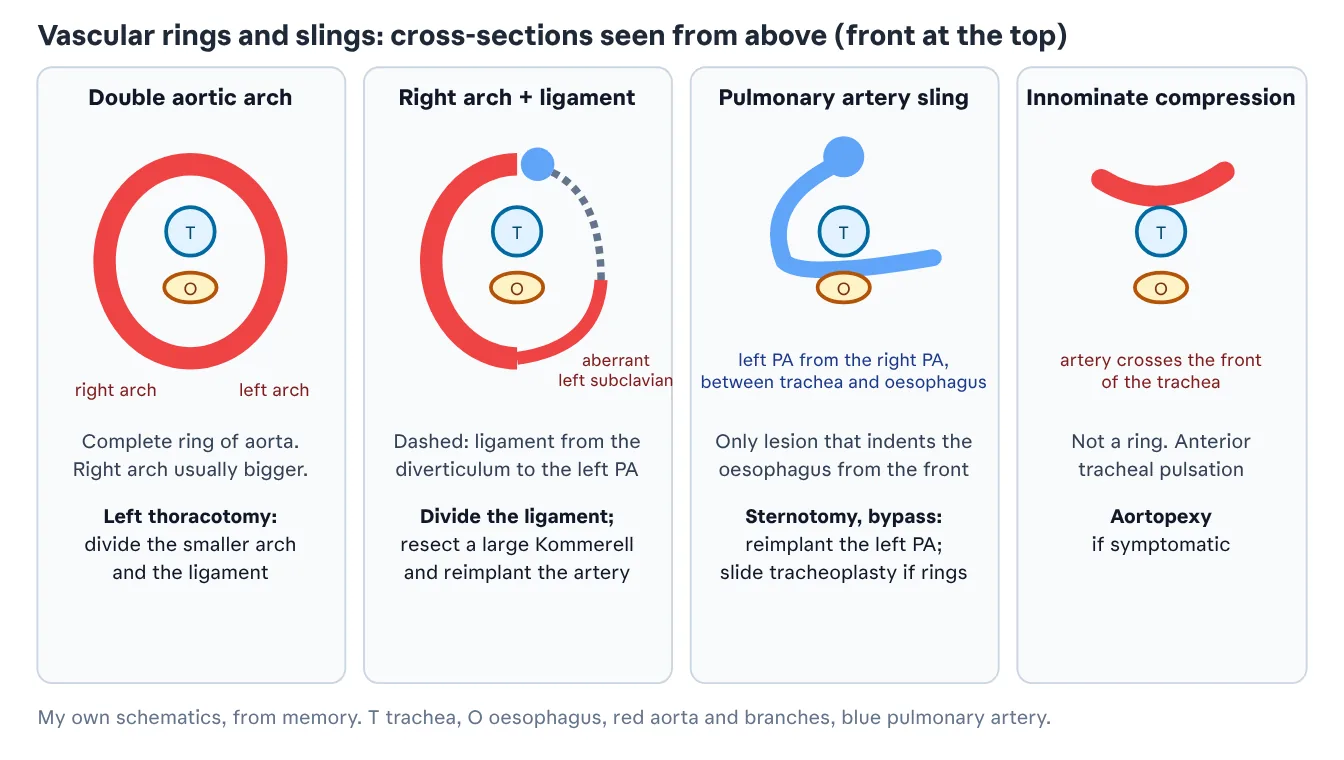
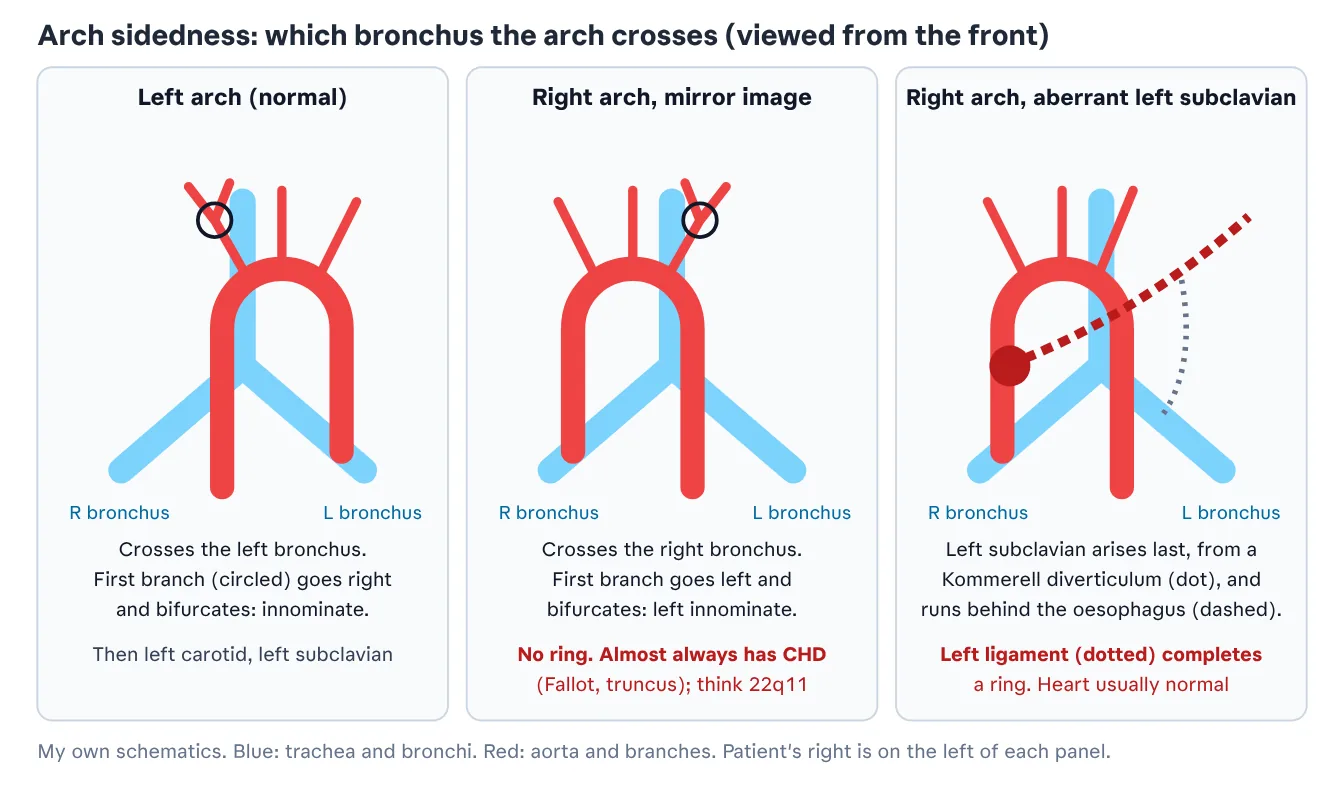
Congenital 6: arch sidedness with schematic
Claude-Session: https://claude.ai/code/session_01Rh3NCGU1qAttPZ8CRZtk9w

diff --git a/st4/index.html b/st4/index.html
@@ -23523,7 +23523,7 @@ mark{background:var(--hit);color:inherit;border-radius:2px}
 <li><p>Can the heart be repaired, that is, are there two adequate ventricles? If yes: when, at what weight, and is a temporising medical, catheter or surgical step needed first? If no: is the child suitable for single-ventricle palliation, and what is needed now to make the circulation adequate?</p></li>
 </ol>
 </section>
-<section id="tab-g6" data-slug="g6" data-title="6 Anatomy and physiology gaps" hidden><h1 id="g6--congenital-6-anatomy-and-physiology-the-remaining-syllabus-i">Congenital 6: anatomy and physiology, the remaining syllabus items</h1><details class="toc"><summary>Contents (15 sections)</summary><ol><li><a href="#g6/g6--coverage-check-against-the-syllabus">Coverage check against the syllabus</a></li><li><a href="#g6/g6--physiology-first-five-groups">Physiology first: five groups</a></li><li><a href="#g6/g6--embryology">Embryology</a></li><li><a href="#g6/g6--coronary-anatomy-and-its-variants">Coronary anatomy and its variants</a></li><li><a href="#g6/g6--aortopulmonary-window">Aortopulmonary window</a></li><li><a href="#g6/g6--congenitally-corrected-transposition">Congenitally corrected transposition</a></li><li><a href="#g6/g6--double-outlet-right-ventricle-and-the-rastelli-operation">Double outlet right ventricle and the Rastelli operation</a></li><li><a href="#g6/g6--pulmonary-atresia-with-vsd-and-collaterals">Pulmonary atresia with VSD and collaterals</a></li><li><a href="#g6/g6--left-ventricular-outflow-obstruction-sinus-of-valsalva-mitra">Left ventricular outflow obstruction, sinus of Valsalva, mitral</a></li><li><a href="#g6/g6--ebstein-anomaly-and-pulmonary-atresia-with-intact-septum">Ebstein anomaly and pulmonary atresia with intact septum</a></li><li><a href="#g6/g6--systemic-venous-anomalies">Systemic venous anomalies</a></li><li><a href="#g6/g6--vascular-rings-and-slings">Vascular rings and slings</a></li><li><a href="#g6/g6--cardiac-tumours-in-children">Cardiac tumours in children</a></li><li><a href="#g6/g6--bypass-in-children-immature-myocardium-and-support">Bypass in children, immature myocardium and support</a></li><li><a href="#g6/g6--checked-against-the-2025-acc-aha-adult-congenital-guideline-">Checked against the 2025 ACC/AHA adult congenital guideline (added 19 November 2026)</a></li></ol></details>
+<section id="tab-g6" data-slug="g6" data-title="6 Anatomy and physiology gaps" hidden><h1 id="g6--congenital-6-anatomy-and-physiology-the-remaining-syllabus-i">Congenital 6: anatomy and physiology, the remaining syllabus items</h1><details class="toc"><summary>Contents (16 sections)</summary><ol><li><a href="#g6/g6--coverage-check-against-the-syllabus">Coverage check against the syllabus</a></li><li><a href="#g6/g6--physiology-first-five-groups">Physiology first: five groups</a></li><li><a href="#g6/g6--embryology">Embryology</a></li><li><a href="#g6/g6--coronary-anatomy-and-its-variants">Coronary anatomy and its variants</a></li><li><a href="#g6/g6--aortopulmonary-window">Aortopulmonary window</a></li><li><a href="#g6/g6--congenitally-corrected-transposition">Congenitally corrected transposition</a></li><li><a href="#g6/g6--double-outlet-right-ventricle-and-the-rastelli-operation">Double outlet right ventricle and the Rastelli operation</a></li><li><a href="#g6/g6--pulmonary-atresia-with-vsd-and-collaterals">Pulmonary atresia with VSD and collaterals</a></li><li><a href="#g6/g6--left-ventricular-outflow-obstruction-sinus-of-valsalva-mitra">Left ventricular outflow obstruction, sinus of Valsalva, mitral</a></li><li><a href="#g6/g6--ebstein-anomaly-and-pulmonary-atresia-with-intact-septum">Ebstein anomaly and pulmonary atresia with intact septum</a></li><li><a href="#g6/g6--systemic-venous-anomalies">Systemic venous anomalies</a></li><li><a href="#g6/g6--arch-sidedness-added-19-november-2026">Arch sidedness (added 19 November 2026)</a></li><li><a href="#g6/g6--vascular-rings-and-slings">Vascular rings and slings</a></li><li><a href="#g6/g6--cardiac-tumours-in-children">Cardiac tumours in children</a></li><li><a href="#g6/g6--bypass-in-children-immature-myocardium-and-support">Bypass in children, immature myocardium and support</a></li><li><a href="#g6/g6--checked-against-the-2025-acc-aha-adult-congenital-guideline-">Checked against the 2025 ACC/AHA adult congenital guideline (added 19 November 2026)</a></li></ol></details>
 <p>Added 19 November 2026. I compared the congenital list in the FRCS syllabus (Appendix 2, August 2026) with the five existing congenital tabs, and wrote this tab to fill what was missing. <strong>Status of this tab: almost everything here is from memory</strong>, because you have not sent a congenital textbook or guideline for these lesions and I checked only the rows marked "checked" (against summaries of the ESC 2020 adult congenital guideline and the AATS 2017 coronary anomaly consensus). Treat it as a structured first draft to verify. The drawings are my own schematics.</p>
 <h2 id="g6--coverage-check-against-the-syllabus">Coverage check against the syllabus</h2>
 <div class="tw"><table>
@@ -24071,6 +24071,132 @@ mark{background:var(--hit);color:inherit;border-radius:2px}
 <li><p>Unroofed coronary sinus with left SVC: right-to-left shunt to the left atrium.</p></li>
 <li><p>Interrupted IVC with azygos continuation: with left isomerism; a Glenn then carries almost all venous return (Kawashima).</p></li>
 </ul>
+<h2 id="g6--arch-sidedness-added-19-november-2026">Arch sidedness (added 19 November 2026)</h2>
+<p>Sources read: StatPearls, Right Aortic Arches (<a href="https://www.statpearls.com/point-of-care/28590" target="_blank" rel="noopener">extracts</a>); a 2020 classification paper in Cardiology in the Young (extract); a radiology teaching summary. Rows are checked against these unless marked memory. The 2025 ACC/AHA adult guideline says only that 22q11 deletion is common with arch anomalies including right arch (checked in the PDF).</p>
+<figure><img loading="lazy" src="img/g6-5.webp" width="1344" height="796" alt="Arch sidedness: left arch, right arch with mirror-image branching, and right arch with aberrant left subclavian (my own schematics)"><figcaption>Arch sidedness: left arch, right arch with mirror-image branching, and right arch with aberrant left subclavian (my own schematics)</figcaption></figure>
+<div class="tw"><table>
+
+
+<tr>
+<th>Point</th>
+<th>Detail</th>
+<th>Status</th>
+</tr>
+
+
+<tr>
+<td>Definition</td>
+<td>Sidedness is named by the bronchus the arch crosses: a left arch passes over the left main bronchus, a right arch over the right. It is not defined by which side of the spine the descending aorta lies</td>
+<td>Checked (last sentence memory)</td>
+</tr>
+<tr>
+<td>Embryology</td>
+<td>A right arch forms from the right fourth arch and right dorsal aorta, the left regressing instead of the right</td>
+<td>Checked</td>
+</tr>
+<tr>
+<td>How to tell on echo</td>
+<td>The first branch goes to the side opposite the arch. If the first branch bifurcates to the left, the arch is right-sided</td>
+<td>Checked</td>
+</tr>
+<tr>
+<td>Other clues</td>
+<td>Chest film: no aortic knuckle on the left, trachea indented from the right. Barium: posterior oesophageal indentation only if there is a retro-oesophageal vessel</td>
+<td>Checked</td>
+</tr>
+<tr>
+<td>How common</td>
+<td>Right arch in about 0.1% of people; 13 to 34% of Fallot (one paper says 25%)</td>
+<td>Checked</td>
+</tr>
+<tr>
+<td>Associations</td>
+<td>Conotruncal lesions: Fallot, truncus, pulmonary atresia with VSD; 22q11 deletion</td>
+<td>Checked</td>
+</tr>
+
+</table></div>
+<div class="tw"><table>
+
+
+<tr>
+<th>Type of right arch</th>
+<th>Branches in order</th>
+<th>Ring?</th>
+<th>Heart disease</th>
+</tr>
+
+
+<tr>
+<td>Mirror-image branching (59% in one series)</td>
+<td>Left innominate, right carotid, right subclavian</td>
+<td>No (unless a ligament runs from the descending aorta)</td>
+<td>Almost always: 98% in one teaching source, mostly Fallot</td>
+</tr>
+<tr>
+<td>Aberrant left subclavian from a Kommerell diverticulum</td>
+<td>Left carotid, right carotid, right subclavian, then left subclavian behind the oesophagus</td>
+<td>Yes, completed by the left ligament to the left pulmonary artery</td>
+<td>Uncommon: 5 to 10%</td>
+</tr>
+<tr>
+<td>Isolated left subclavian (about 1.5%)</td>
+<td>As above, but the left subclavian is detached and fills by collaterals or the duct</td>
+<td>No</td>
+<td>Subclavian steal; associated with Fallot (memory)</td>
+</tr>
+
+</table></div>
+<p>In the mirror-image arch the duct usually arises from the left innominate artery or the underside of the arch and joins the left pulmonary artery, which predisposes to left pulmonary artery stenosis or isolation when it closes (checked).</p>
+<h3 id="g6--why-the-surgeon-asks-which-side-the-arch-is-on-memory-except">Why the surgeon asks which side the arch is on (memory, except where marked)</h3>
+<div class="tw"><table>
+
+
+<tr>
+<th>Operation</th>
+<th>Why sidedness matters</th>
+</tr>
+
+
+<tr>
+<td>Blalock-Taussig shunt</td>
+<td>The classic shunt was placed on the side opposite the arch (the innominate side), where the subclavian turns down without kinking; results were worse on the side of the arch (checked: Yuan 2009). A modified shunt is likewise usually taken from the innominate or its subclavian branch</td>
+</tr>
+<tr>
+<td>Coarctation and duct ligation</td>
+<td>Thoracotomy is on the side of the arch and descending aorta: left for a left arch. A right arch changes the approach and the position of the recurrent nerve</td>
+</tr>
+<tr>
+<td>Vascular ring division</td>
+<td>Approach through the side of the ligament or the smaller arch, usually the left</td>
+</tr>
+<tr>
+<td>Recurrent laryngeal nerve</td>
+<td>Hooks the duct or ligament on the side it lies, and the fourth arch derivative on the other; with a right arch the right nerve hooks the arch</td>
+</tr>
+<tr>
+<td>Arch reconstruction, Norwood, interrupted arch</td>
+<td>Branching order dictates cannulation and cerebral perfusion; an aberrant subclavian arises distally and may need reimplanting or sacrificing</td>
+</tr>
+<tr>
+<td>Unifocalisation</td>
+<td>Collaterals arise from the descending aorta on the side of the arch</td>
+</tr>
+<tr>
+<td>Oesophageal atresia repair</td>
+<td>Thoracotomy opposite the arch</td>
+</tr>
+<tr>
+<td>Arterial line and the pre-ductal limb</td>
+<td>With an aberrant subclavian, that arm is post-ductal: measure pre-ductal saturation and pressure in the other arm</td>
+</tr>
+<tr>
+<td>Genetics</td>
+<td>A right arch with a conotruncal lesion: test for 22q11 deletion (irradiated blood, calcium)</td>
+</tr>
+
+</table></div>
+<p>Related anomalies: left arch with aberrant right subclavian is the commonest arch anomaly (under 1% of people), passes behind the oesophagus and is rarely symptomatic (checked); double arch and the other rings are in the next section.</p>
 <h2 id="g6--vascular-rings-and-slings">Vascular rings and slings</h2>
 <div class="tw"><table>
 
@@ -24116,7 +24242,7 @@ mark{background:var(--hit);color:inherit;border-radius:2px}
 
 </table></div>
 <p>Presentation: stridor, noisy breathing, recurrent infections, feeding difficulty. Barium swallow shows a posterior indentation for rings and an anterior oesophageal indentation only in the sling. CT or MRI defines it; bronchoscopy for tracheal rings and malacia.</p>
-<figure><img loading="lazy" src="img/g6-5.webp" width="1344" height="760" alt="Vascular rings and slings in cross-section (my own schematics)"><figcaption>Vascular rings and slings in cross-section (my own schematics)</figcaption></figure>
+<figure><img loading="lazy" src="img/g6-6.webp" width="1344" height="760" alt="Vascular rings and slings in cross-section (my own schematics)"><figcaption>Vascular rings and slings in cross-section (my own schematics)</figcaption></figure>
 <h2 id="g6--cardiac-tumours-in-children">Cardiac tumours in children</h2>
 <ul>
 <li><p>Rhabdomyoma: the commonest; multiple, ventricular; tuberous sclerosis; regresses, so operate only for obstruction or arrhythmia.</p></li>

diff --git a/st4/sw.js b/st4/sw.js
@@ -1,5 +1,5 @@
-const CACHE='st4-974263b9d0';
-const ASSETS=["./", "index.html", "manifest.webmanifest", "apple-touch-icon.png", "icon-192.png", "icon-512.png", "img/t1-1.webp", "img/t1-2.webp", "img/t1-3.webp", "img/t1-4.webp", "img/t1-5.webp", "img/t1-6.webp", "img/t2-1.webp", "img/t2-2.webp", "img/t2-3.webp", "img/t2-4.webp", "img/t2-5.webp", "img/t2-6.webp", "img/t3-1.webp", "img/t3-2.webp", "img/t4-1.webp", "img/t4-2.webp", "img/t4-3.webp", "img/t4-4.webp", "img/t4-5.webp", "img/t4-6.webp", "img/t5-1.webp", "img/t5-2.webp", "img/t5-3.webp", "img/t5-4.webp", "img/t6-1.webp", "img/t6-2.webp", "img/t7-1.webp", "img/t7-2.webp", "img/t7-3.webp", "img/t7-4.webp", "img/t7-5.webp", "img/t7-6.webp", "img/t9-1.webp", "img/t9-2.webp", "img/t9-3.webp", "img/t9-4.webp", "img/t9-5.webp", "img/t9-6.webp", "img/t9-7.webp", "img/t9-8.webp", "img/t9-9.webp", "img/t9-10.webp", "img/t9-11.webp", "img/t9-12.webp", "img/t9-13.webp", "img/t9-14.webp", "img/t9-15.webp", "img/t9-16.webp", "img/t9-17.webp", "img/t9-18.webp", "img/cardiac-1.webp", "img/cardiac-2.webp", "img/cardiac-3.webp", "img/cardiac-4.webp", "img/cardiac-5.webp", "img/c1-1.webp", "img/c1-2.webp", "img/c1-3.webp", "img/c1-4.webp", "img/c1-5.webp", "img/c1-6.webp", "img/c1-7.webp", "img/c1-8.webp", "img/c1-9.webp", "img/c1-10.webp", "img/c1-11.webp", "img/c1-12.webp", "img/c1-13.webp", "img/c1-14.webp", "img/c1-15.webp", "img/c1-16.webp", "img/c1-17.webp", "img/c1-18.webp", "img/c1-19.webp", "img/c1-20.webp", "img/c1-21.webp", "img/c1-22.webp", "img/c2-1.webp", "img/c2-2.webp", "img/c2-3.webp", "img/c2-4.webp", "img/c2-5.webp", "img/c2-6.webp", "img/c2-7.webp", "img/c2-8.webp", "img/c2-9.webp", "img/c2-10.webp", "img/c2-11.webp", "img/c2-12.webp", "img/c2-13.webp", "img/c2-14.webp", "img/c2-15.webp", "img/c2-16.webp", "img/c4-1.webp", "img/c4-2.webp", "img/c4-3.webp", "img/c4-4.webp", "img/c4-5.webp", "img/c4-6.webp", "img/c4-7.webp", "img/c5-1.webp", "img/c6-1.webp", "img/c6-2.webp", "img/c6-3.webp", "img/c7-1.webp", "img/c7-2.webp", "img/c7-3.webp", "img/c7-4.webp", "img/c7-5.webp", "img/c7-6.webp", "img/c7-7.webp", "img/c8-1.webp", "img/c8-2.webp", "img/c8-3.webp", "img/c8-4.webp", "img/c8-5.webp", "img/c8-6.webp", "img/c8-7.webp", "img/c8-8.webp", "img/c8-9.webp", "img/c8-10.webp", "img/c8-11.webp", "img/c8-12.webp", "img/c8-13.webp", "img/c8-14.webp", "img/c8-15.webp", "img/c8-16.webp", "img/c8-17.webp", "img/c8-18.webp", "img/c8-19.webp", "img/c8-20.webp", "img/c8-21.webp", "img/c8-22.webp", "img/c9-1.webp", "img/c9-2.webp", "img/c9-3.webp", "img/c9-4.webp", "img/c9-5.webp", "img/c9-6.webp", "img/c9-7.webp", "img/c9-8.webp", "img/c9-9.webp", "img/c9-10.webp", "img/c9-11.webp", "img/c9-12.webp", "img/c9-13.webp", "img/c9-14.webp", "img/c9-15.webp", "img/c9-16.webp", "img/c9-17.webp", "img/c9-18.webp", "img/c9-19.webp", "img/c9-20.webp", "img/c9-21.webp", "img/c9-22.webp", "img/c9-23.webp", "img/c9-24.webp", "img/c9-25.webp", "img/c10-1.webp", "img/c10-2.webp", "img/c10-3.webp", "img/c10-4.webp", "img/g2-1.webp", "img/g2-2.webp", "img/g2-3.webp", "img/g3-1.webp", "img/g5-1.webp", "img/g5-2.webp", "img/g5-3.webp", "img/g5-4.webp", "img/g5-5.webp", "img/g5-6.webp", "img/g5-7.webp", "img/g5-8.webp", "img/g5-9.webp", "img/g5-10.webp", "img/g5-11.webp", "img/g5-12.webp", "img/g5-13.webp", "img/g5-14.webp", "img/g6-1.webp", "img/g6-2.webp", "img/g6-3.webp", "img/g6-4.webp", "img/g6-5.webp", "img/fb-3.webp"];
+const CACHE='st4-ee10afac9e';
+const ASSETS=["./", "index.html", "manifest.webmanifest", "apple-touch-icon.png", "icon-192.png", "icon-512.png", "img/t1-1.webp", "img/t1-2.webp", "img/t1-3.webp", "img/t1-4.webp", "img/t1-5.webp", "img/t1-6.webp", "img/t2-1.webp", "img/t2-2.webp", "img/t2-3.webp", "img/t2-4.webp", "img/t2-5.webp", "img/t2-6.webp", "img/t3-1.webp", "img/t3-2.webp", "img/t4-1.webp", "img/t4-2.webp", "img/t4-3.webp", "img/t4-4.webp", "img/t4-5.webp", "img/t4-6.webp", "img/t5-1.webp", "img/t5-2.webp", "img/t5-3.webp", "img/t5-4.webp", "img/t6-1.webp", "img/t6-2.webp", "img/t7-1.webp", "img/t7-2.webp", "img/t7-3.webp", "img/t7-4.webp", "img/t7-5.webp", "img/t7-6.webp", "img/t9-1.webp", "img/t9-2.webp", "img/t9-3.webp", "img/t9-4.webp", "img/t9-5.webp", "img/t9-6.webp", "img/t9-7.webp", "img/t9-8.webp", "img/t9-9.webp", "img/t9-10.webp", "img/t9-11.webp", "img/t9-12.webp", "img/t9-13.webp", "img/t9-14.webp", "img/t9-15.webp", "img/t9-16.webp", "img/t9-17.webp", "img/t9-18.webp", "img/cardiac-1.webp", "img/cardiac-2.webp", "img/cardiac-3.webp", "img/cardiac-4.webp", "img/cardiac-5.webp", "img/c1-1.webp", "img/c1-2.webp", "img/c1-3.webp", "img/c1-4.webp", "img/c1-5.webp", "img/c1-6.webp", "img/c1-7.webp", "img/c1-8.webp", "img/c1-9.webp", "img/c1-10.webp", "img/c1-11.webp", "img/c1-12.webp", "img/c1-13.webp", "img/c1-14.webp", "img/c1-15.webp", "img/c1-16.webp", "img/c1-17.webp", "img/c1-18.webp", "img/c1-19.webp", "img/c1-20.webp", "img/c1-21.webp", "img/c1-22.webp", "img/c2-1.webp", "img/c2-2.webp", "img/c2-3.webp", "img/c2-4.webp", "img/c2-5.webp", "img/c2-6.webp", "img/c2-7.webp", "img/c2-8.webp", "img/c2-9.webp", "img/c2-10.webp", "img/c2-11.webp", "img/c2-12.webp", "img/c2-13.webp", "img/c2-14.webp", "img/c2-15.webp", "img/c2-16.webp", "img/c4-1.webp", "img/c4-2.webp", "img/c4-3.webp", "img/c4-4.webp", "img/c4-5.webp", "img/c4-6.webp", "img/c4-7.webp", "img/c5-1.webp", "img/c6-1.webp", "img/c6-2.webp", "img/c6-3.webp", "img/c7-1.webp", "img/c7-2.webp", "img/c7-3.webp", "img/c7-4.webp", "img/c7-5.webp", "img/c7-6.webp", "img/c7-7.webp", "img/c8-1.webp", "img/c8-2.webp", "img/c8-3.webp", "img/c8-4.webp", "img/c8-5.webp", "img/c8-6.webp", "img/c8-7.webp", "img/c8-8.webp", "img/c8-9.webp", "img/c8-10.webp", "img/c8-11.webp", "img/c8-12.webp", "img/c8-13.webp", "img/c8-14.webp", "img/c8-15.webp", "img/c8-16.webp", "img/c8-17.webp", "img/c8-18.webp", "img/c8-19.webp", "img/c8-20.webp", "img/c8-21.webp", "img/c8-22.webp", "img/c9-1.webp", "img/c9-2.webp", "img/c9-3.webp", "img/c9-4.webp", "img/c9-5.webp", "img/c9-6.webp", "img/c9-7.webp", "img/c9-8.webp", "img/c9-9.webp", "img/c9-10.webp", "img/c9-11.webp", "img/c9-12.webp", "img/c9-13.webp", "img/c9-14.webp", "img/c9-15.webp", "img/c9-16.webp", "img/c9-17.webp", "img/c9-18.webp", "img/c9-19.webp", "img/c9-20.webp", "img/c9-21.webp", "img/c9-22.webp", "img/c9-23.webp", "img/c9-24.webp", "img/c9-25.webp", "img/c10-1.webp", "img/c10-2.webp", "img/c10-3.webp", "img/c10-4.webp", "img/g2-1.webp", "img/g2-2.webp", "img/g2-3.webp", "img/g3-1.webp", "img/g5-1.webp", "img/g5-2.webp", "img/g5-3.webp", "img/g5-4.webp", "img/g5-5.webp", "img/g5-6.webp", "img/g5-7.webp", "img/g5-8.webp", "img/g5-9.webp", "img/g5-10.webp", "img/g5-11.webp", "img/g5-12.webp", "img/g5-13.webp", "img/g5-14.webp", "img/g6-1.webp", "img/g6-2.webp", "img/g6-3.webp", "img/g6-4.webp", "img/g6-5.webp", "img/g6-6.webp", "img/fb-3.webp"];
 self.addEventListener('install',e=>{e.waitUntil(caches.open(CACHE).then(async c=>{await c.addAll(ASSETS.slice(0,6));await Promise.allSettled(ASSETS.slice(6).map(a=>c.add(a)));}).then(()=>self.skipWaiting()));});
 self.addEventListener('activate',e=>{e.waitUntil(caches.keys().then(ks=>Promise.all(ks.filter(k=>k.startsWith('st4-')&&k!==CACHE).map(k=>caches.delete(k)))).then(()=>self.clients.claim()));});
 self.addEventListener('fetch',e=>{
